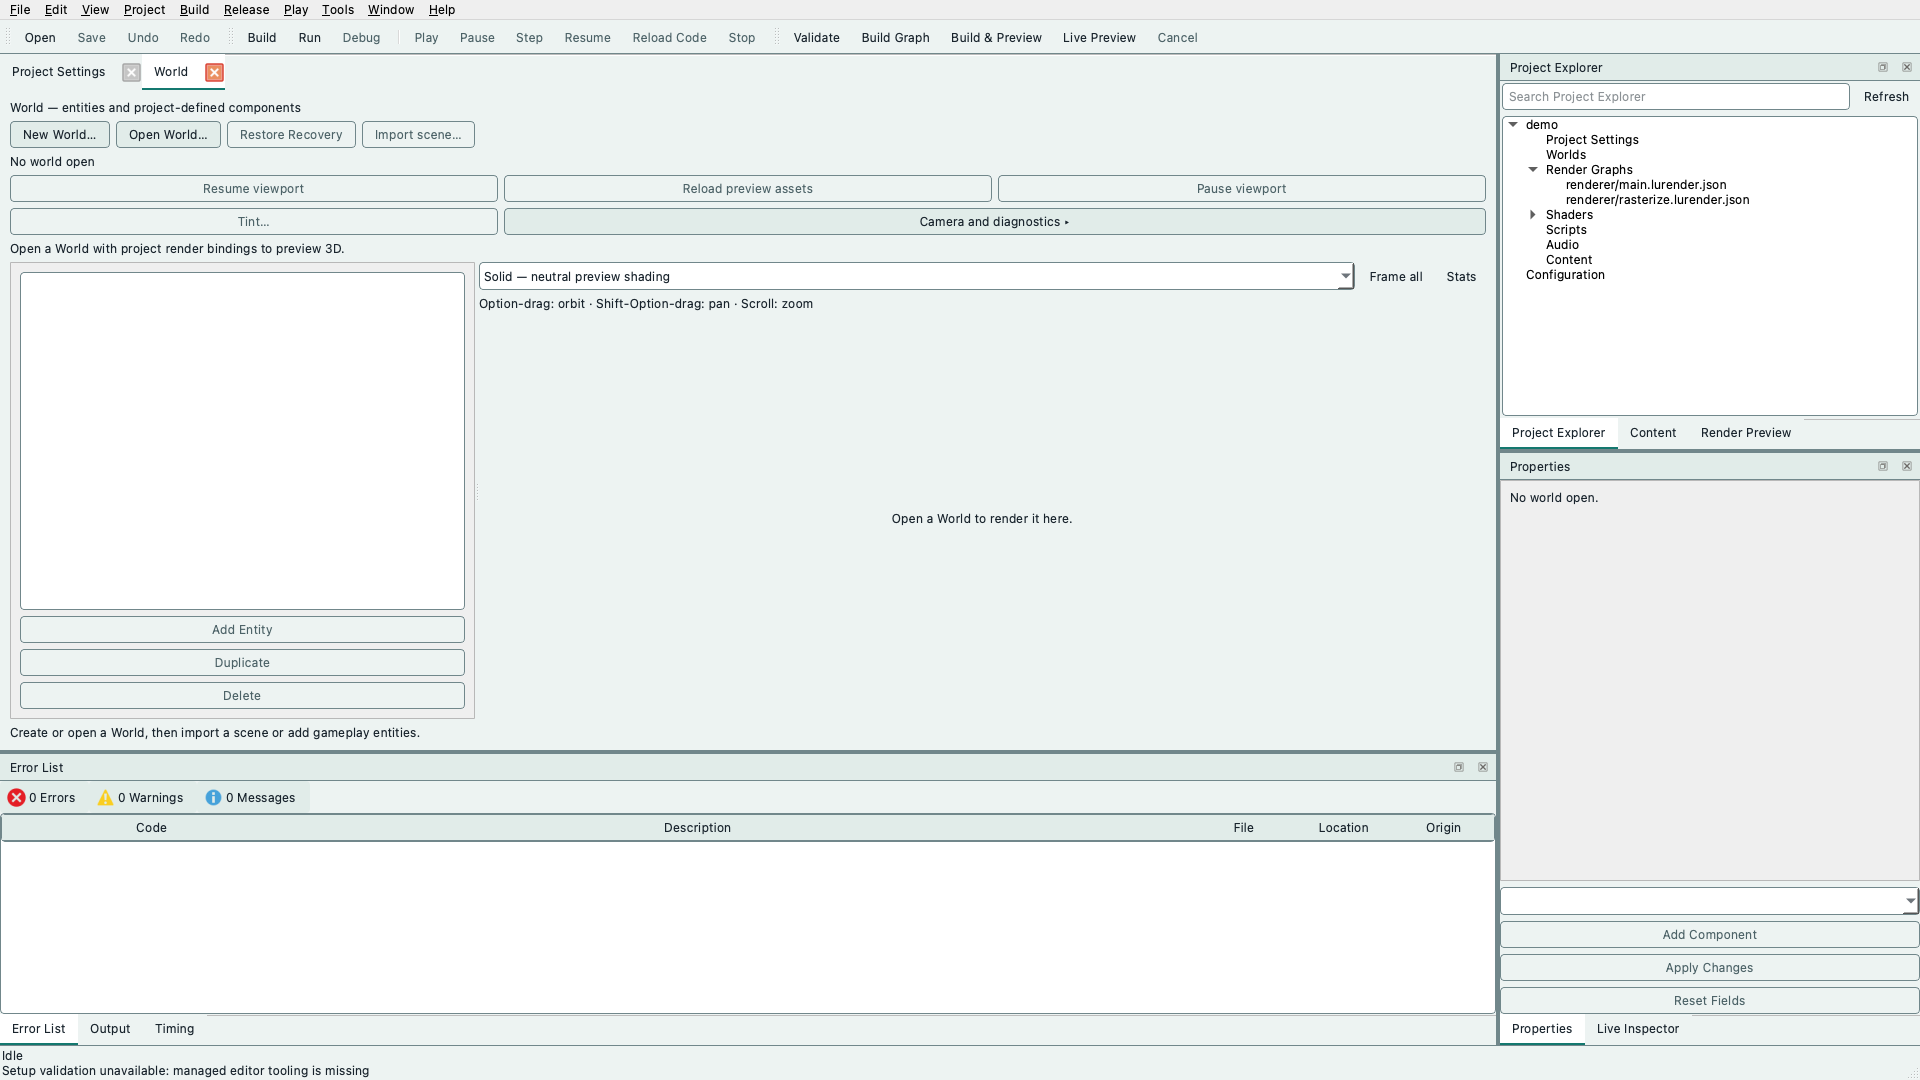
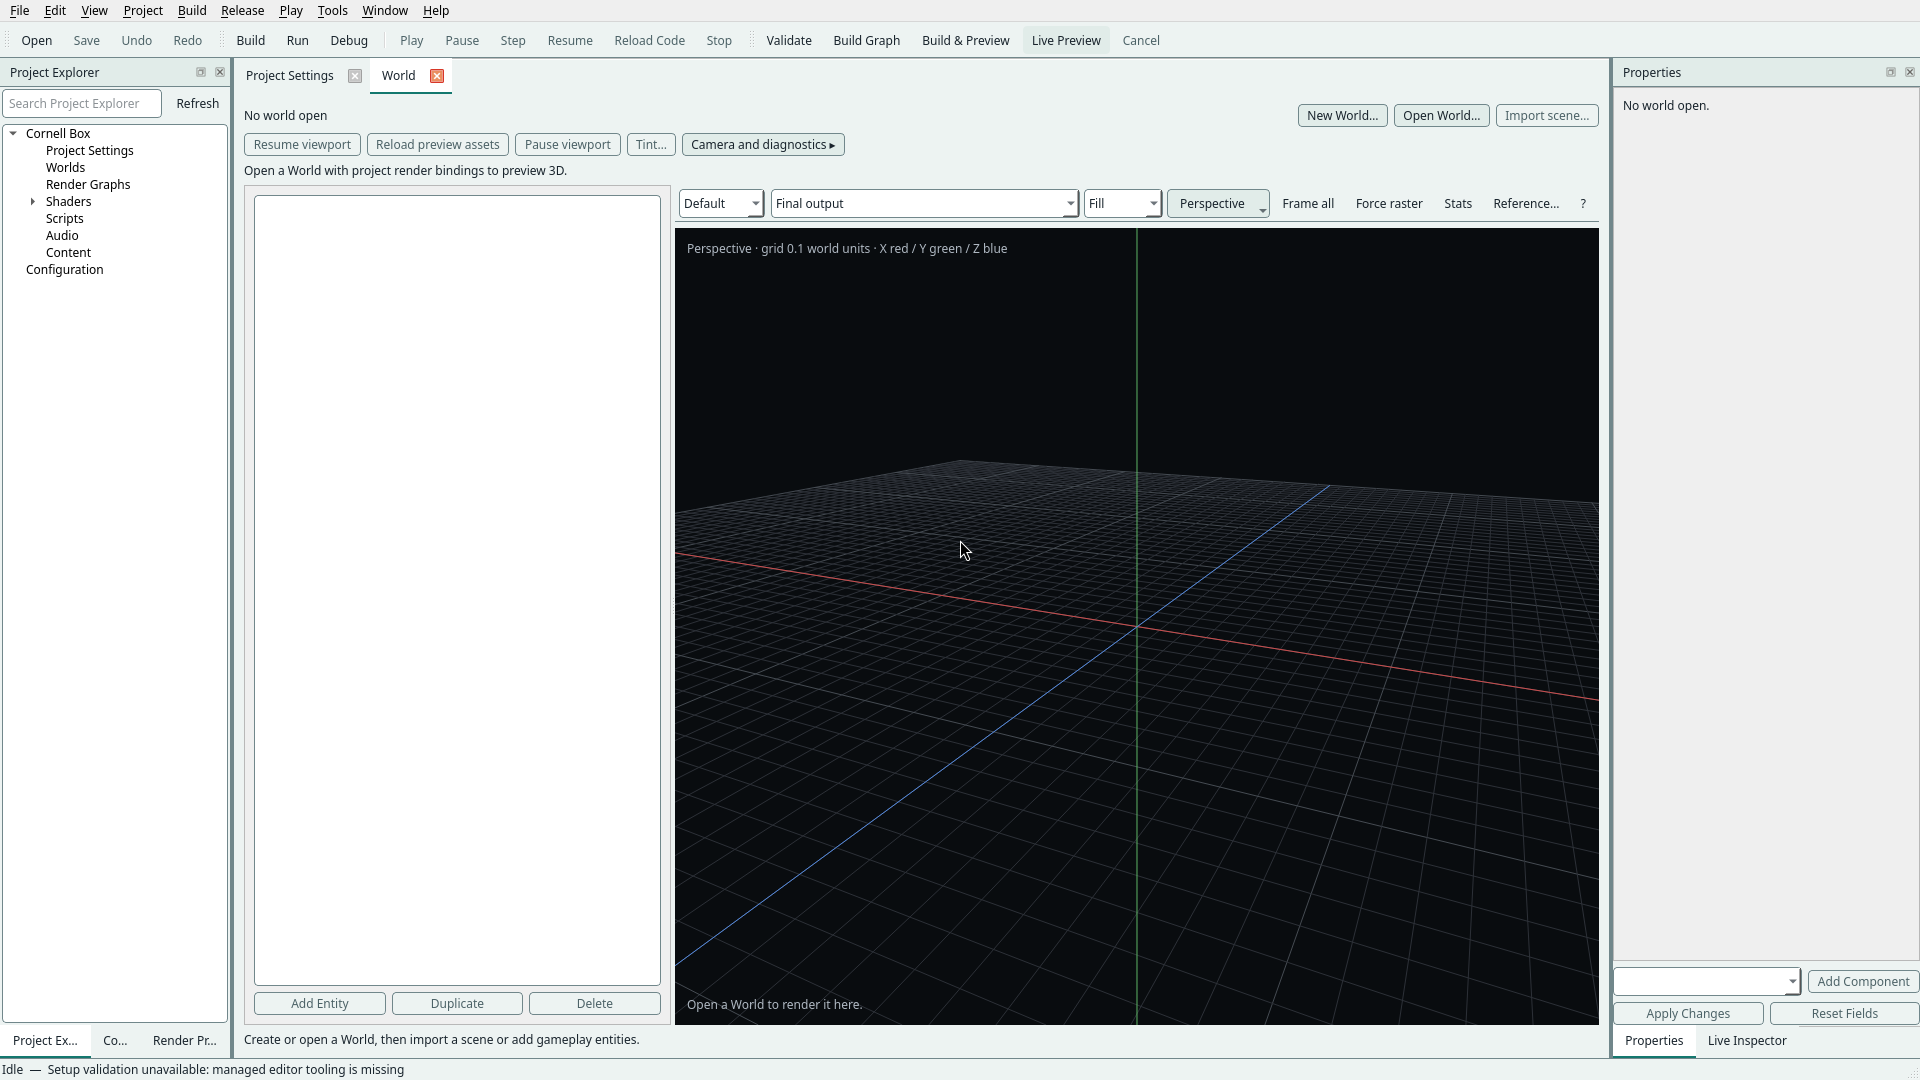
Start the editor with a calm layout
Project Explorer moves to the left and Properties stays on the right, so the
documents sit between them. The diagnostics group starts closed at any window
height and opens when there is something to show: problems reveal the Error
List, a build reveals Output, the first Play session reveals Timing and
recording reveals Profiling. Layout version 6 resets saved layouts once.

diff --git a/apps/editor/src/main_window_layout.cpp b/apps/editor/src/main_window_layout.cpp
@@ -64,26 +64,26 @@ namespace ludus::editor
 {
 namespace
 {
-// Version 5: the render-graph Render Preview tool window; older layouts reset.
-constexpr foundation::int32 LAYOUT_VERSION = 5;
+// Version 6: the calm default (Project Explorer left, Properties right, diagnostics closed until needed);
+// older layouts reset. Version 5 added the render-graph Render Preview tool window.
+constexpr foundation::int32 LAYOUT_VERSION = 6;
 constexpr foundation::int32 PERCENT = 100;
 // First-run window: this share of the screen, at least the minimum below.
 constexpr foundation::int32 DEFAULT_WINDOW_PERCENT = 85;
 constexpr foundation::int32 MIN_WINDOW_WIDTH_PIXELS = 1100;
 constexpr foundation::int32 MIN_WINDOW_HEIGHT_PIXELS = 760;
-// Default tool-window extents leave documents roughly two thirds of the window.
-constexpr foundation::int32 SIDE_DOCK_PERCENT = 22;
-constexpr foundation::int32 MIN_SIDE_DOCK_PIXELS = 260;
-constexpr foundation::int32 MAX_SIDE_DOCK_PIXELS = 420;
+// Default tool-window extents leave documents about three fifths of the window: the outliner is the
+// narrower side, Properties the wider one.
+constexpr foundation::int32 EXPLORER_DOCK_PERCENT = 15;
+constexpr foundation::int32 MIN_EXPLORER_DOCK_PIXELS = 220;
+constexpr foundation::int32 MAX_EXPLORER_DOCK_PIXELS = 320;
+constexpr foundation::int32 PROPERTIES_DOCK_PERCENT = 20;
+constexpr foundation::int32 MIN_PROPERTIES_DOCK_PIXELS = 260;
+constexpr foundation::int32 MAX_PROPERTIES_DOCK_PIXELS = 380;
 // The bottom group needs a tab bar, the Error List filters and header, and a few rows.
 constexpr foundation::int32 BOTTOM_DOCK_PERCENT = 27;
 constexpr foundation::int32 MIN_BOTTOM_DOCK_PIXELS = 160;
 constexpr foundation::int32 MAX_BOTTOM_DOCK_PIXELS = 300;
-// Below this window height (a 13-inch laptop at its default scale) the bottom group starts
-// closed so the documents keep their height; new errors or warnings open it again.
-constexpr foundation::int32 SHORT_WINDOW_HEIGHT_PIXELS = 1000;
-// Project Explorer's share of the right column; Properties gets the rest.
-constexpr foundation::int32 EXPLORER_SHARE_PERCENT = 40;
 constexpr foundation::int32 PROPERTIES_HINT_MARGIN_PIXELS = 8;
 constexpr foundation::int64 MAX_SETTINGS_BYTES = foundation::int64{64} * 1024;
 constexpr foundation::int32 MAX_STATE_BYTES = 32 * 1024;
@@ -568,19 +568,20 @@ void MainWindow::showEvent(QShowEvent* event)
 
 void MainWindow::arrangeDefaultDocks()
 {
-    // Right: Project Explorer (with Content and Render Preview) above Properties (with Live
-    // Inspector), so a node's properties stay visible beside its preview. Bottom, under the
-    // documents: Error List with Output and Timing.
+    // Calm default: the documents get the window. Left: Project Explorer (with Content and Render
+    // Preview). Right: Properties (with Live Inspector), so a node's properties stay visible beside
+    // its preview. Bottom, under the documents: Error List with Output, Timing and Profiling; that
+    // group starts closed and opens when there is something to show (see applyDefaultDockSizes).
     const QList<QDockWidget*> docks = getToolWindows();
     for (QDockWidget* dock : docks)
     {
         dock->setFloating(false);
         removeDockWidget(dock);
     }
-    addDockWidget(Qt::RightDockWidgetArea, mProjectExplorerDock);
-    splitDockWidget(mProjectExplorerDock, mPropertiesDock, Qt::Vertical);
+    addDockWidget(Qt::LeftDockWidgetArea, mProjectExplorerDock);
     tabifyDockWidget(mProjectExplorerDock, mContentDock);
     tabifyDockWidget(mProjectExplorerDock, mRenderPreviewDock);
+    addDockWidget(Qt::RightDockWidgetArea, mPropertiesDock);
     tabifyDockWidget(mPropertiesDock, InspectorDock_);
     addDockWidget(Qt::BottomDockWidgetArea, mErrorListDock);
     tabifyDockWidget(mErrorListDock, OutputDock_);
@@ -679,26 +680,27 @@ foundation::int32 MainWindow::getDefaultBottomDockHeight() const
 
 void MainWindow::applyDefaultDockSizes()
 {
-    const foundation::int32 side =
-        qBound(MIN_SIDE_DOCK_PIXELS, width() * SIDE_DOCK_PERCENT / PERCENT, MAX_SIDE_DOCK_PIXELS);
-    const bool isShortWindow = height() < SHORT_WINDOW_HEIGHT_PIXELS;
+    const foundation::int32 explorer =
+        qBound(MIN_EXPLORER_DOCK_PIXELS, width() * EXPLORER_DOCK_PERCENT / PERCENT, MAX_EXPLORER_DOCK_PIXELS);
+    const foundation::int32 properties =
+        qBound(MIN_PROPERTIES_DOCK_PIXELS, width() * PROPERTIES_DOCK_PERCENT / PERCENT, MAX_PROPERTIES_DOCK_PIXELS);
+    // The diagnostics group is closed until it has something to show: new errors or warnings reveal the
+    // Error List, a build reveals Output, a play session reveals Timing and recording reveals Profiling.
     for (QDockWidget* dock : {mErrorListDock, OutputDock_, TimingDock_, mProfilingDock})
     {
-        dock->setVisible(isShortWindow == false);
+        dock->hide();
     }
-    resizeDocks({mProjectExplorerDock}, {side}, Qt::Horizontal);
-    if (isShortWindow == false)
+    if (mErrorList->GetCount(ErrorListSeverity::Error) != 0 || mErrorList->GetCount(ErrorListSeverity::Warning) != 0)
     {
-        mErrorListDock->raise();
-        resizeDocks({mErrorListDock}, {getDefaultBottomDockHeight()}, Qt::Vertical);
+        openToolWindow(mErrorListDock);
     }
-    const foundation::int32 explorer = height() * EXPLORER_SHARE_PERCENT / PERCENT;
-    resizeDocks({mProjectExplorerDock, mPropertiesDock}, {explorer, height() - explorer}, Qt::Vertical);
+    resizeDocks({mProjectExplorerDock, mPropertiesDock}, {explorer, properties}, Qt::Horizontal);
 }
 
 void MainWindow::ResetWorkspaceLayout()
 {
     setViewportFocused(false);
+    mHasTimingOpenedForPlay = false;
     (void)restoreState(DefaultLayout_, LAYOUT_VERSION);
     // Also recover panes that were floating, closed or moved when the user requested reset.
     arrangeDefaultDocks();

diff --git a/apps/editor/tests/editor_shell_tests.cpp b/apps/editor/tests/editor_shell_tests.cpp
@@ -60,9 +60,6 @@ using ludus::foundation::int32;
 
 namespace
 {
-/// MainWindow's short-window threshold below which the bottom tool windows start closed.
-constexpr int SHORT_WINDOW_HEIGHT_PIXELS = 1000;
-
 /// objectNames of every tool window the shell creates.
 QStringList GetToolWindows()
 {
@@ -176,31 +173,27 @@ void Settle()
 void CheckDefaultToolWindows(const MainWindow& window)
 {
     CHECK(window.centralWidget() == &Well(window));
-    // Short windows start with the bottom group closed; View reopens it at the default height.
-    const bool isShortWindow = window.height() < SHORT_WINDOW_HEIGHT_PIXELS;
+    // The calm default closes the bottom group at any height; View reopens it at the default height.
     for (const QString& name : GetToolWindows())
     {
         INFO(name.toStdString());
         const bool isBottom = window.dockWidgetArea(Dock(window, name)) == Qt::BottomDockWidgetArea;
-        CHECK(Dock(window, name)->isHidden() == (isShortWindow == true && isBottom == true));
+        CHECK(Dock(window, name)->isHidden() == isBottom);
         CHECK(Dock(window, name)->isFloating() == false);
     }
-    if (isShortWindow == true)
+    for (const QString& command :
+         {QStringLiteral("view.output"), QStringLiteral("view.timing"), QStringLiteral("view.errorList")})
     {
-        for (const QString& command :
-             {QStringLiteral("view.output"), QStringLiteral("view.timing"), QStringLiteral("view.errorList")})
-        {
-            Action(window, command)->trigger();
-        }
-        Settle();
+        Action(window, command)->trigger();
     }
+    Settle();
     QDockWidget* explorer = Dock(window, QStringLiteral("projectExplorerDock"));
     QDockWidget* properties = Dock(window, QStringLiteral("propertiesDock"));
     QDockWidget* errors = Dock(window, QStringLiteral("errorListDock"));
-    CHECK(window.dockWidgetArea(explorer) == Qt::RightDockWidgetArea);
+    // Project Explorer on the left, Properties on the right: the documents sit between them.
+    CHECK(window.dockWidgetArea(explorer) == Qt::LeftDockWidgetArea);
     CHECK(window.dockWidgetArea(properties) == Qt::RightDockWidgetArea);
     CHECK(window.dockWidgetArea(errors) == Qt::BottomDockWidgetArea);
-    // Project Explorer and Properties are stacked, not tabbed, so both stay visible.
     CHECK(window.tabifiedDockWidgets(explorer).contains(properties) == false);
     CHECK(window.tabifiedDockWidgets(explorer).contains(Dock(window, QStringLiteral("contentDock"))) == true);
     CHECK(window.tabifiedDockWidgets(explorer).contains(Dock(window, QStringLiteral("renderPreviewDock"))) == true);
@@ -353,10 +346,11 @@ TEST_CASE("Shell puts documents in the centre and tool windows around them", "[e
         Settle();
         CheckDefaultToolWindows(window);
         CHECK(window.width() == size.width());
-        // Documents get most of the window; tool windows keep useful default sizes.
-        CHECK(well.width() * 100 >= window.width() * 65);
+        // Documents get most of the window; the two side tool windows keep useful default sizes.
+        CHECK(well.width() * 100 >= window.width() * 60);
         CHECK(well.height() * 100 >= window.height() * 55);
-        CHECK(Dock(window, QStringLiteral("projectExplorerDock"))->width() >= 260);
+        CHECK(Dock(window, QStringLiteral("projectExplorerDock"))->width() >= 200);
+        CHECK(Dock(window, QStringLiteral("propertiesDock"))->width() >= 240);
         // The bottom tool windows keep room for several diagnostic rows. Measured on the
         // table, since the dock's own tab bar height differs between platform styles.
         QTableWidget* diagnostics = window.findChild<QTableWidget*>(QStringLiteral("errorListTable"));
@@ -404,7 +398,7 @@ TEST_CASE("Window menu shows hides and resets every tool window", "[editor][layo
     QTemporaryDir settings;
     EditorController controller(ToolingPaths{}, nullptr, QDir(settings.path()).filePath(QStringLiteral("recent.json")));
     MainWindow window(&controller, nullptr, QDir(settings.path()).filePath(QStringLiteral("workspace.json")));
-    // Tall enough that the default arrangement opens every tool window.
+    // A tall window: the bottom group is still closed until needed.
     window.resize(1600, 1100);
     window.show();
     Settle();
@@ -415,13 +409,16 @@ TEST_CASE("Window menu shows hides and resets every tool window", "[editor][layo
         INFO(name.toStdString());
         QDockWidget* dock = Dock(window, name);
         QAction* toggle = dock->toggleViewAction();
+        // The bottom group starts closed; every other tool window starts open.
+        const bool wasHidden = dock->isHidden();
         CHECK(menu->actions().contains(toggle) == true);
-        CHECK(toggle->isChecked() == true);
+        CHECK(toggle->isChecked() == (wasHidden == false));
         toggle->trigger();
-        CHECK(dock->isHidden() == true);
+        CHECK(dock->isHidden() == (wasHidden == false));
         toggle->trigger();
-        CHECK(dock->isHidden() == false);
+        CHECK(dock->isHidden() == wasHidden);
         toggle->trigger();
+        dock->setHidden(true);
     }
     // View commands show and focus a tool window instead of toggling it.
     Action(window, QStringLiteral("view.errorList"))->trigger();

diff --git a/apps/editor/tests/workspace_layout_tests.cpp b/apps/editor/tests/workspace_layout_tests.cpp
@@ -56,9 +56,6 @@ TEST_CASE("Browser players admit only shipped sample identifiers", "[editor][bro
 
 namespace
 {
-/// MainWindow's short-window threshold for opening the bottom tool-window group by default.
-constexpr int SHORT_WINDOW_HEIGHT_PIXELS = 1000;
-
 QDockWidget* Dock(MainWindow& window, const QString& name)
 {
     auto* dock = window.findChild<QDockWidget*>(name);
@@ -96,12 +93,11 @@ void CheckDefaultPanels(MainWindow& window)
     QDockWidget* errors = Dock(window, QStringLiteral("errorListDock"));
     CHECK(window.dockWidgetArea(inspector) == Qt::RightDockWidgetArea);
     CHECK(window.dockWidgetArea(output) == Qt::BottomDockWidgetArea);
-    // Short windows start with the bottom group closed; it is still arranged under the documents.
-    const bool isBottomOpen = errors->isHidden() == false;
-    CHECK(isBottomOpen == (window.height() >= SHORT_WINDOW_HEIGHT_PIXELS));
+    // The calm default starts with the bottom group closed at any height; it is still arranged under the
+    // documents and opens when there is something to show.
     for (QDockWidget* dock : {output, errors, Dock(window, QStringLiteral("timingDock"))})
     {
-        CHECK(dock->isHidden() == (isBottomOpen == false));
+        CHECK(dock->isHidden() == true);
         dock->show();
     }
     for (QDockWidget* dock : {inspector, output, errors, Dock(window, QStringLiteral("projectExplorerDock"))})
@@ -216,6 +212,11 @@ TEST_CASE("Invalid or incompatible layout preferences fall back to recoverable d
     SECTION("Older single-dock layout")
     {
         WriteSetting(preferences, QStringLiteral("version"), 3);
+    }
+    SECTION("Layout from before the calm default")
+    {
+        // Version 5 had Project Explorer on the right and the bottom group open; it resets once.
+        WriteSetting(preferences, QStringLiteral("version"), 5);
     }
     SECTION("Different Qt version")
     {
@@ -505,8 +506,7 @@ TEST_CASE("Focus Viewport hides chrome around the World viewport and restores th
     CHECK(world->IsChromeVisible() == true);
 }
 
-TEST_CASE("Short windows start with the bottom tool windows closed until a problem is reported",
-          "[editor][layout][error-list]")
+TEST_CASE("The bottom tool windows start closed until a problem is reported", "[editor][layout][error-list]")
 {
     QTemporaryDir directory;
     EditorController controller(ToolingPaths{}, nullptr, directory.filePath(QStringLiteral("recent.json")));
@@ -557,14 +557,12 @@ TEST_CASE("Short windows start with the bottom tool windows closed until a probl
     CHECK(window.dockWidgetArea(errors) == Qt::BottomDockWidgetArea);
     CHECK(errors->height() <= window.height() / 3);
 
-    // Taller windows keep the bottom group open by default.
+    // A taller window starts the same way: closed, with the problems waiting behind the status bar.
+    list->ReplaceEntries(ErrorListProducer::Build, {});
     window.resize(1600, 1100);
     Reset(window);
     QApplication::processEvents();
-    if (window.height() >= SHORT_WINDOW_HEIGHT_PIXELS)
-    {
-        CHECK(errors->isHidden() == false);
-    }
+    CHECK(errors->isHidden() == true);
 }
 
 TEST_CASE("The World viewport keeps most of a MacBook Air-sized editor window", "[editor][layout][world]")
@@ -595,7 +593,7 @@ TEST_CASE("The World viewport keeps most of a MacBook Air-sized editor window", 
                    << viewport->height());
     // Before these limits the viewport had about 135 of 950 pixels of height.
     CHECK(viewport->height() * 100 >= window.height() * 55);
-    CHECK(viewport->width() * 100 >= window.width() * 50);
+    CHECK(viewport->width() * 100 >= window.width() * 40);
     const QString captures = qEnvironmentVariable("LUDUS_EDITOR_LAYOUT_CAPTURE");
     if (captures.isEmpty() == false)
     {

diff --git a/apps/editor/src/main_window.cpp b/apps/editor/src/main_window.cpp
@@ -969,6 +969,17 @@ void MainWindow::OnStateChanged()
     // If a close was requested and the workspace is now closeable, finish.
     RenderProperties();
     Timing_->Render();
+    // Timing is closed by default; the first play session of this editor run opens it, and closing it
+    // afterwards stays closed until Reset Window Layout.
+    const PlayPhase playPhase = Controller_->PlayState().Phase;
+    const bool isPlaySessionActive = playPhase == PlayPhase::Running || playPhase == PlayPhase::Paused;
+    if (isPlaySessionActive == true && mWasPlaySessionActive == false && mHasTimingOpenedForPlay == false &&
+        mIsViewportFocused == false)
+    {
+        mHasTimingOpenedForPlay = true;
+        openToolWindow(TimingDock_);
+    }
+    mWasPlaySessionActive = isPlaySessionActive;
     renderGraphCommands();
     renderDocumentTitles();
     if (CloseConfirmed_ && Controller_->Caps().CanCloseImmediately)

diff --git a/apps/editor/src/internal/main_window.h b/apps/editor/src/internal/main_window.h
@@ -195,6 +195,10 @@ private:
     bool mIsPlayRunInViewport = false;
     /// A launch is running a game in its own window; the World viewport is labelled meanwhile.
     bool mIsRunElsewhere = false;
+    /// A play session was running at the last state change; the next one is a start.
+    bool mWasPlaySessionActive = false;
+    /// Timing has been opened by a play session since the editor started or the layout was reset.
+    bool mHasTimingOpenedForPlay = false;
     void SetProjectWorkspace(const QString& root, bool restore);
     void SaveProjectWorkspace() const;
     QByteArray DefaultLayout_;

diff --git a/docs/development/editor-workspace.md b/docs/development/editor-workspace.md
@@ -395,7 +395,7 @@ ludus project create /path/to/new-game --name MyGame --tools /path/to/Ludus
 
 ## Workspace layout
 
-![Default editor layout at 1920×1080: documents in the centre, Project Explorer and Properties on the right, Error List below](images/editor-workspace-vs-1920.png)
+![Calm default editor layout at 1920×1080: Project Explorer on the left, documents in the centre, Properties on the right, diagnostics closed](images/editor-workspace-vs-1920.png)
 
 The layout follows Visual Studio, built on Qt Widgets' own docking:
 
@@ -410,21 +410,26 @@ The layout follows Visual Studio, built on Qt Widgets' own docking:
   **New Horizontal Tab Group** puts it below. **Move to Next/Previous Tab
   Group**, **Merge All Tab Groups** and the tab context menu move documents
   between groups. Groups share one direction at a time, up to four groups.
-- **Tool windows** dock around the documents. By default Project Explorer
-  (tabbed with Content and Render Preview) sits above Properties (tabbed with
-  Live Inspector) on the right, and the Error List (tabbed with Output and
-  Timing) sits below the documents. Drag a title bar to move, tab or float a
-  tool window. **View** shows and focuses one (Project Explorer Ctrl+Alt+L,
-  Properties F4, Error List Ctrl+Alt+E, Output Ctrl+Alt+O, Render Preview). The
-  **Window** menu lists every tool window with a check mark to show or hide it.
+- **Tool windows** dock around the documents. The calm default keeps the documents
+  as large as the window allows: Project Explorer (tabbed with Content and Render
+  Preview) is on the left, Properties (tabbed with Live Inspector, and Ray Paths
+  when a capture starts) is on the right, and the diagnostics group below the
+  documents starts **closed**: Error List tabbed with Output, Timing and
+  Profiling. Each opens when there is something to show: new errors or warnings
+  reveal the Error List, a build reveals Output, the first Play session of an
+  editor run reveals Timing, and recording reveals Profiling. Drag a title bar to
+  move, tab or float a tool window. **View** shows and focuses one (Project
+  Explorer Ctrl+Alt+L, Properties F4, Error List Ctrl+Alt+E, Output Ctrl+Alt+O,
+  Render Preview). The **Window** menu lists every tool window with a check mark
+  to show or hide it.
 - **Window → Reset Window Layout** restores the default documents-first
-  arrangement, all tool windows and toolbars, sized for the current window
-  (the right column takes about a fifth of the width and the bottom group about
-  a quarter of the height, enough for several Error List rows). Windows shorter
-  than 1000 pixels, such as a maximized window on a 13-inch laptop, start with the
-  bottom group closed so documents keep their height; new errors or warnings
-  open it, and **View** reopens any of its tool windows. Reset never changes
-  drafts, saved files or a Play session.
+  arrangement, all toolbars and the calm tool-window arrangement above, sized for
+  the current window (the outliner takes about a seventh of the width and
+  Properties a fifth). A bottom group that is closed opens at about a quarter of
+  the height, enough for several Error List rows. If problems are already listed,
+  Reset opens the Error List. Reset never changes drafts, saved files or a Play
+  session. The saved layout carries a version; an older one (before the calm
+  default) resets once to these defaults.
 - **View → Focus Viewport** (Shift+Alt+Enter; Shift+Option+Return on macOS)
   hides every tool window, the toolbars and the setup notice. When a render graph
   is active, it focuses that graph and hides its navigation, source tree and
